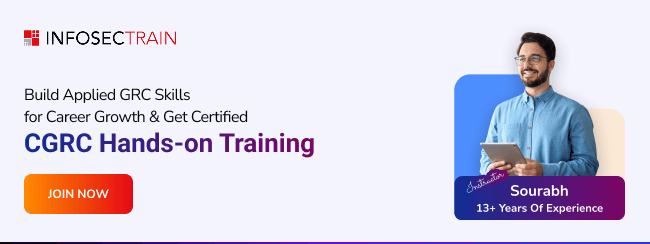
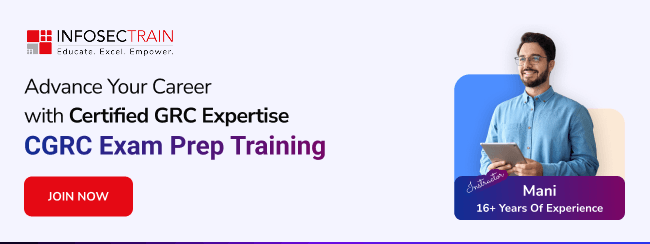
feat: your message here

diff --git a/mailer/courses2025/iso-42001-li/index.html b/mailer/courses2025/iso-42001-li/index.html
@@ -4,7 +4,7 @@
   <head>
     <meta charset="UTF-8" />
     <meta name="viewport" content="width=device-width, initial-scale=1.0" />
-    <title>Data Protection Officer</title>
+    <title>ISO 42001 Lead Auditor Training</title>
     <style>
       body {
         margin: 0;
@@ -26,9 +26,10 @@
                   <!-- banner Start -->
                   <tr>
                     <td>
-                      <a href="https://www.infosectrain.com/courses/cgrc-training/" target="_blank">
-                        <img src="image/cgrc-banner.png" width="650" height="244" alt="cgrc"
-                          style="display: block; width: 100%; height: auto;">
+                      <a href="https://www.infosectrain.com/courses/iso-iec-42001-lead-implementer-training/"
+                        target="_blank">
+                        <img src="image/ISO 42001 LA-mailer-banner.png" width="650" height="246"
+                          alt="ISO 42001 L.I Training" style="display: block; width: 100%; height: auto;">
                       </a>
                     </td>
                   </tr>
@@ -49,15 +50,15 @@
                               </p>
                               <p
                                 style="font-size: 16px; font-weight: bold; color: #010101; font-family: Calibri; margin: 0;">
-                                Hi</p>
+                                Dear [Name],</p>
                               <p
                                 style="font-size: 16px; font-weight: normal; color: #010101; font-family: Calibri; margin: 0;">
                                 <br />
                               </p>
                               <p
                                 style="font-size: 16px; font-weight: normal; color: #010101; font-family: Calibri; margin: 0;line-height: 24px;">
-                                Organizations today are seeking professionals who can confidently govern, manage, and
-                                assure cybersecurity risk and compliance.
+                                As Artificial Intelligence continues to transform industries, organizations need
+                                structured frameworks to deploy AI responsibly, ethically, and securely.
                               </p>
                               <p
                                 style="font-size: 8px; font-weight: normal; color: #010101; font-family: Calibri; margin: 0;">
@@ -65,17 +66,14 @@
                               </p>
                               <p
                                 style="font-size: 16px; font-weight: normal; color: #010101; font-family: Calibri; margin: 0;line-height: 24px;">
-                                The CGRC Training Program is designed to help you develop career-ready GRC skills
-                                through an immersive, expert-led learning journey. From mastering real-world scenarios
-                                to preparing for certification, this course empowers you with the knowledge and
-                                confidence to excel.
+                                The ISO/IEC 42001 Lead Implementer certification empowers professionals to design,
+                                implement, and manage AI Management Systems (AIMS) aligned with the world's first
+                                international AI governance standard.
                               </p>
                               <p
                                 style="font-size: 16px; font-weight: normal; color: #010101; font-family: Calibri; margin: 0;">
                                 <br />
                               </p>
-
-
                             </td>
                             <td style="width: 5%;">&nbsp;</td>
                           </tr>
@@ -94,8 +92,8 @@
                             <td style="width: 5%;">&nbsp;</td>
                             <td style="width: 90%;">
                               <p
-                                style="font-size: 18px; font-weight: bold; color: var(--Soft-Blue, #4D8EFF); font-family: Calibri; margin: 0;">
-                                Benefits of Upskilling with CGRC Training</p>
+                                style="font-size: 22px; font-weight: bold; color: #E50914; font-family: Calibri; margin: 0;">
+                                Course Highlights</p>
                               <p
                                 style="font-size: 6px; font-weight: normal; color: #010101; font-family: Calibri; margin: 0;">
                                 <br />
@@ -103,22 +101,34 @@
                               <ul style="margin: 0;padding-left: 18px;line-height: 28px;">
                                 <li
                                   style="font-size: 16px; font-weight: normal; color: #010101; font-family: Calibri; margin: 0;">
-                                  Career-Focused GRC Skills built through real-world scenarios</li>
+                                  32 Hours of Live Instructor-Led Online Training</li>
                                 <li
                                   style="font-size: 16px; font-weight: normal; color: #010101; font-family: Calibri; margin: 0;">
-                                  Learn from an Industry Expert with 18+ Years of Experience</li>
+                                  Accredited by TUV SUD as Cooperation Partner</li>
                                 <li
                                   style="font-size: 16px; font-weight: normal; color: #010101; font-family: Calibri; margin: 0;">
-                                  Practice Tests & Study Materials to boost certification readiness</li>
+                                  Learn AI & ML Fundamentals and their impact on organizations</li>
                                 <li
                                   style="font-size: 16px; font-weight: normal; color: #010101; font-family: Calibri; margin: 0;">
-                                  Telegram Group for ongoing support and discussions</li>
+                                  Understand structured implementation frameworks for AI systems</li>
                                 <li
                                   style="font-size: 16px; font-weight: normal; color: #010101; font-family: Calibri; margin: 0;">
-                                  Access to Recorded Sessions for revision and flexibility</li>
+                                  Practice-Based, Scenario-Driven Learning</li>
                                 <li
                                   style="font-size: 16px; font-weight: normal; color: #010101; font-family: Calibri; margin: 0;">
-                                  Career Guidance & Mentorship to help you grow beyond the exam</li>
+                                  End-to-End Implementation Coverage</li>
+                                <li
+                                  style="font-size: 16px; font-weight: normal; color: #010101; font-family: Calibri; margin: 0;">
+                                  In-depth AI Use Cases & Specimen Exam</li>
+                                <li
+                                  style="font-size: 16px; font-weight: normal; color: #010101; font-family: Calibri; margin: 0;">
+                                  Access to Recorded Sessions for Flexible Learning</li>
+                                <li
+                                  style="font-size: 16px; font-weight: normal; color: #010101; font-family: Calibri; margin: 0;">
+                                  Telegram Group for Peer Discussion & Daily Practice</li>
+                                <li
+                                  style="font-size: 16px; font-weight: normal; color: #010101; font-family: Calibri; margin: 0;">
+                                  Post-Training Support, Mentorship & Career Guidance</li>
                               </ul>
                             </td>
                             <td style="width: 5%;">&nbsp;</td>
@@ -142,15 +152,16 @@
                                 <br />
                               </p>
                               <p
-                                style="font-size: 18px; font-weight: bold; color: var(--Soft-Blue, #4D8EFF); font-family: Calibri; margin: 0;">
+                                style="font-size: 22px; font-weight: bold; color: #E50914; font-family: Calibri; margin: 0;">
                                 Upcoming Batch</p>
                               <p
                                 style="font-size: 16px; font-weight: normal; color: #010101; font-family: Calibri; margin: 0;">
                                 <br />
                               </p>
                               <p style="margin: 0;">
-                                <a href="https://www.infosectrain.com/courses/cgrc-training/" target="_blank">
-                                  <img src="image/cgrc-Batch-Schedule.png" alt="Upcoming Batch Schedule" width="602"
+                                <a href="https://www.infosectrain.com/courses/iso-iec-42001-lead-implementer-training/"
+                                  target="_blank">
+                                  <img src="image/iso-Batch-Schedule.png" alt="Upcoming Batch Schedule" width="602"
                                     height="78">
                                 </a>
                               </p>
@@ -177,27 +188,23 @@
                                 <br />
                               </p>
                               <p
-                                style="font-size: 18px; font-weight: bold; color: var(--Soft-Blue, #4D8EFF); font-family: Calibri; margin: 0;">
+                                style="font-size: 22px; font-weight: bold; color: #E50914; font-family: Calibri; margin: 0;">
                                 Know Your Trainer</p>
                               <p
                                 style="font-size: 16px; font-weight: normal; color: #010101; font-family: Calibri; margin: 0;">
                                 <br />
                               </p>
                               <p style="margin: 0;">
-                                <a href="https://www.infosectrain.com/courses/cgrc-training/" target="_blank">
-                                  <img src="image/cgrc-trainer.png  " width="602" height="122"
-                                    alt="Sourabh | Instructor">
+                                <a href="https://www.infosectrain.com/courses/iso-iec-42001-lead-implementer-training/"
+                                  target="_blank">
+                                  <img src="image/iso-trainer.png" width="602" height="128" alt="Sujay|Instructor">
                                 </a>
                               </p>
                               <p
                                 style="font-size: 16px; font-weight: normal; color: #010101; font-family: Calibri; margin: 0;">
                                 <br />
                               </p>
-                              <p style="margin: 0;">
-                                <a href="https://www.infosectrain.com/courses/cgrc-training/" target="_blank">
-                                  <img src="image/cgrc-spot-today.png" width="602" height="104" alt="cgrc-enroll">
-                                </a>
-                              </p>
+
                             </td>
                             <td style="width: 5%;">&nbsp;</td>
                           </tr>
@@ -206,6 +213,39 @@
                     </td>
                   </tr>
                   <!-- banner End -->
+
+                  <!--tr start-->
+                  <tr>
+                    <td>
+                      <table cellspacing="0" cellpadding="0"
+                        style="border-collapse: collapse; width: 650px; margin-left: auto; margin-right: auto;">
+                        <tbody>
+                          <tr>
+                            <td style="width: 5%;">&nbsp;</td>
+                            <td style="width: 90%;">
+                              <p
+                                style="font-size: 16px; font-weight: normal; color: #010101; font-family: Calibri; margin: 0;">
+                                <br />
+                              </p>
+                              <p style="margin: 0;">
+                                <a href="https://www.infosectrain.com/courses/iso-iec-42001-lead-implementer-training/"
+                                  target="_blank">
+                                  <img src="image/cta.png" alt="ISO 42001 Lead Auditor Training" width="602"
+                                    height="80">
+                                </a>
+                              </p>
+                              <p
+                                style="font-size: 16px; font-weight: normal; color: #010101; font-family: Calibri; margin: 0;">
+                                <br />
+                              </p>
+                            </td>
+                            <td style="width: 5%;">&nbsp;</td>
+                          </tr>
+                        </tbody>
+                      </table>
+                    </td>
+                  </tr>
+                  <!--tr end-->
 
                   <!-- tr Start -->
                   <tr>
@@ -216,7 +256,7 @@
                           <tr>
                             <td style="width: 5%;">&nbsp;</td>
                             <td style="width: 90%;">
-                              <img src="image/line.png" alt="footer-line" width="602" height="4">
+                              <img src="image/line.png" width="602" height="4">
                             </td>
                             <td style="width: 5%;">&nbsp;</td>
                           </tr>
@@ -242,8 +282,7 @@
                               </p>
                               <p
                                 style="font-size: 12px; font-weight: normal; color: #010101; font-family: Calibri; margin: 0;">
-                                All rights reserved. © 2025, <strong
-                                  style="color: var(--Soft-Blue, #4D8EFF);">InfosecTrain</strong> (A
+                                All rights reserved. © 2025, <strong style="color: #E50914;">InfosecTrain</strong> (A
                                 Brand of AZPIRANTZ TECHNOLOGIES LLP) B7, First Floor, Sector-1, Noida, 201301, Uttar
                                 Pradesh 201301 (INDIA)
                               </p>
